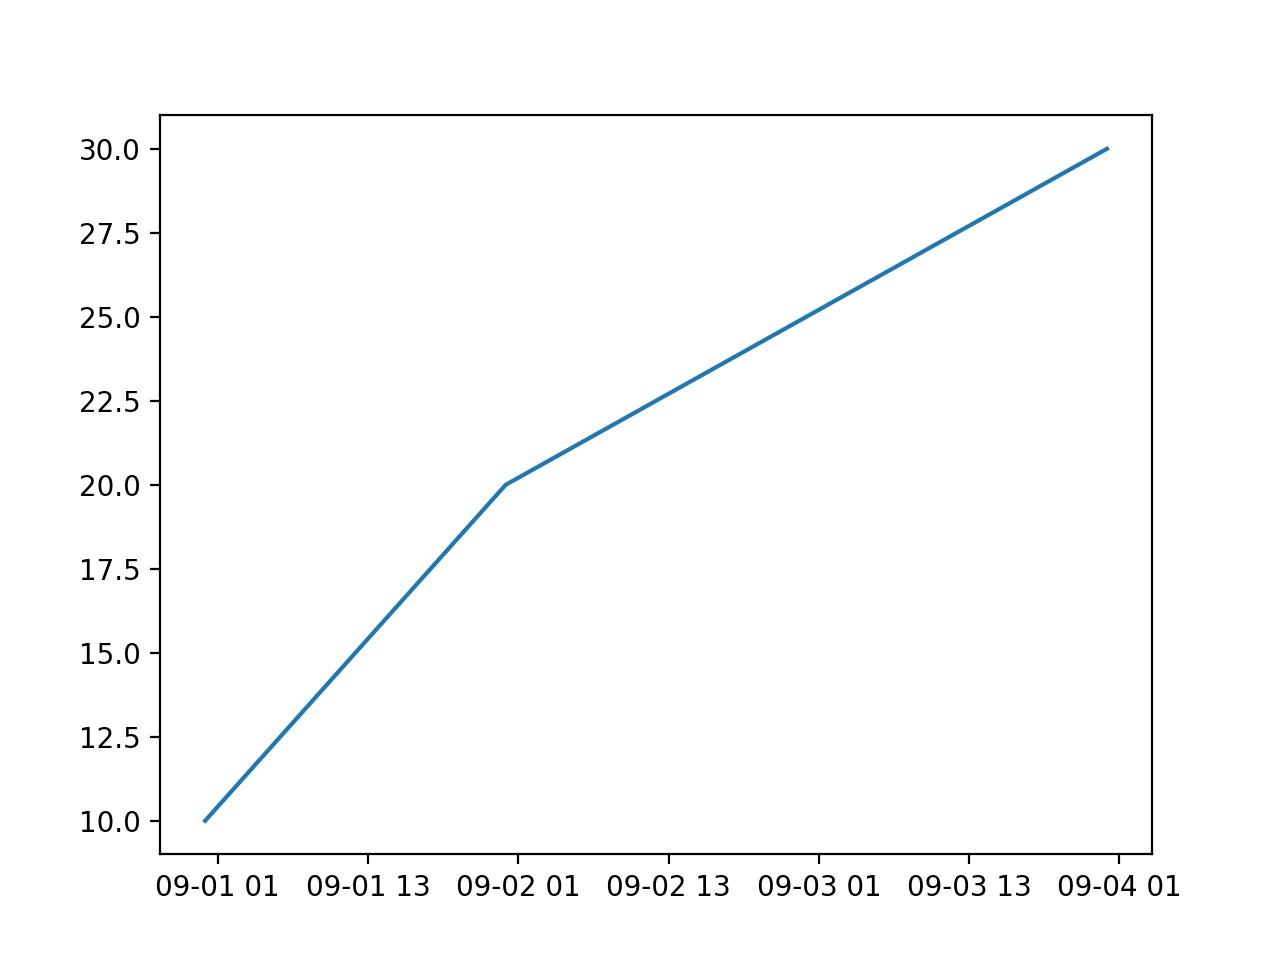
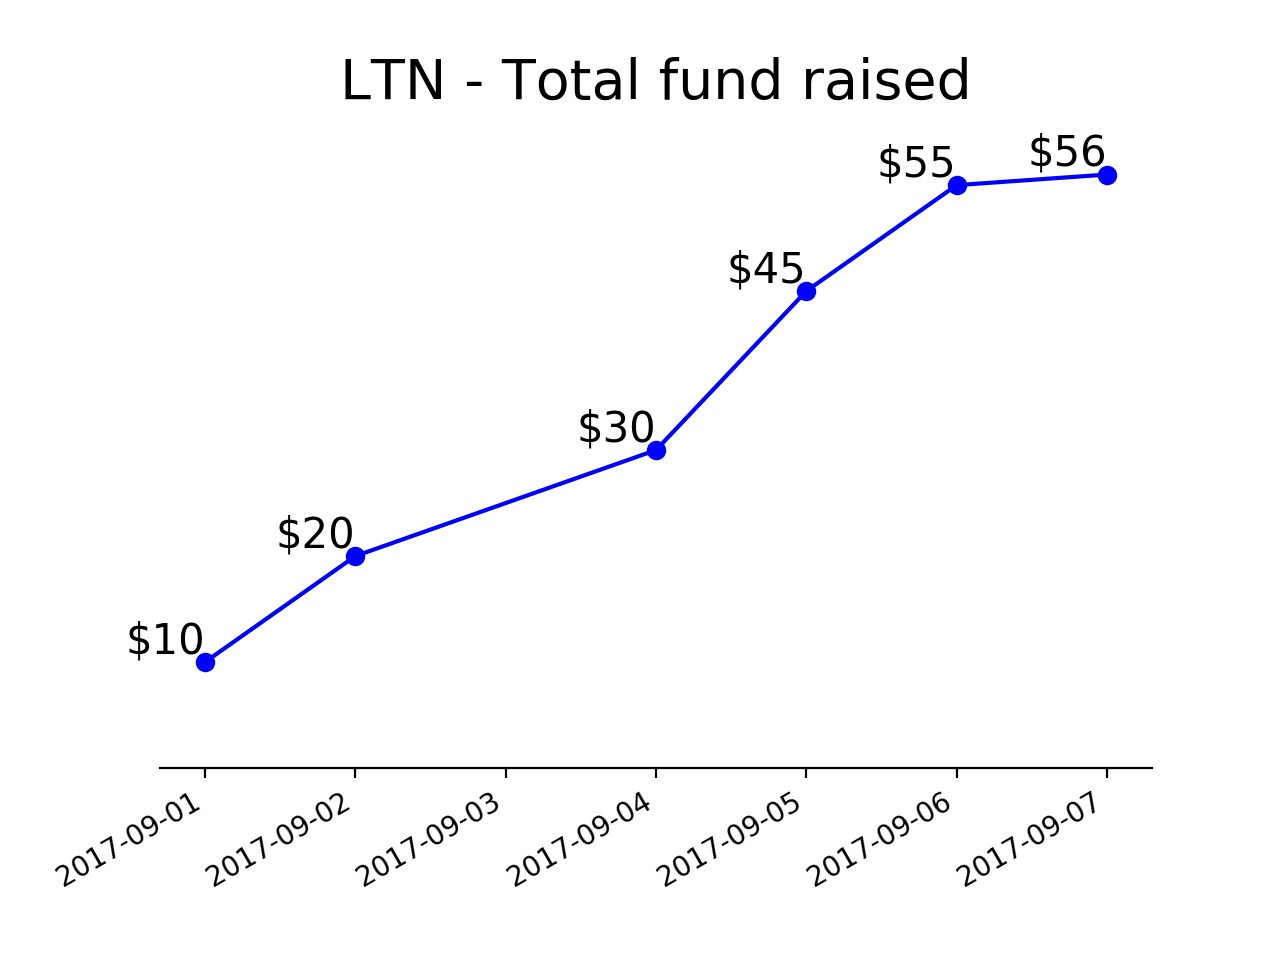
Modify the function for generating time-series. Removed the spine and added labels

diff --git a/app/src/visualizer.py b/app/src/visualizer.py
@@ -9,8 +9,10 @@ contains the function to generate the jpg's
 import os 
 from utils import get_visual_data_path
 import numpy as np
+import matplotlib
 import matplotlib.pyplot as plt
-from turtledemo.__main__ import font_sizes
+from datetime import datetime as dt 
+
 
 IMG_QUALITY = 200 # dpi
 
@@ -63,25 +65,40 @@ def generate_time_series(xtime, values, file_name):
   if len(xtime) != len(values):
     raise ValueError("The size of lables and values must be equal.")
 
-  from datetime import datetime as dt 
-  print(dt.strptime(xtime[0], "%Y-%m-%d"))
   x = np.array([dt.strptime(t, "%Y-%m-%d") for t in xtime])
-  print(x)
   y = np.array(values)
+  dates = matplotlib.dates.date2num(x)
+  print(dates)
+  
   plt.clf()
-  plt.plot(x, values)
+  plt.plot_date(dates, y, fmt="bo-")
+  for loc, spine in plt.axes().axes.spines.items(): 
+    if loc != 'bottom': 
+      # no spine if it is not at the bottom
+      spine.set_color('none')
+  #remove y ticks
+  plt.yticks([])
+  # write the data point values on them
+  for x1, y1 in zip(x, y): 
+    plt.text(x1, y1, '$%.0f' % y1, ha='right', va= 'bottom', fontsize = 15)
+  plt.gcf().autofmt_xdate()
+  plt.ylim(0, 1.1 * max(y) ) 
+  plt.title("LTN - Total fund raised", fontsize=20)
   plt.savefig(file_name, dpi=IMG_QUALITY)
 
 if __name__ == "__main__":
+  # generate the bar chart for tema competition 
   file_name = os.path.join(get_visual_data_path(), 'divisions.jpg')
   v = [326, 5000, 20]
   l = ['Base Band', 'Radio', 'Indoor']
   generate_bar_chart(l, v,  file_name) 
   
+  # generate the total fund raised as a function of time
   file_name = os.path.join(get_visual_data_path(), 'time_series.jpg')
-  t = ['2017-09-01', '2017-09-02', '2017-09-04']
-  v_ = [10, 20, 30]
-  generate_time_series(t, v_, file_name)
+  t = ['2017-09-01', '2017-09-02', '2017-09-04', '2017-09-05', '2017-09-06', '2017-09-07']
+  v = [10, 20, 30, 45, 55, 56]
+  generate_time_series(t, v, file_name)
+  
   print('Done!')
   
   
